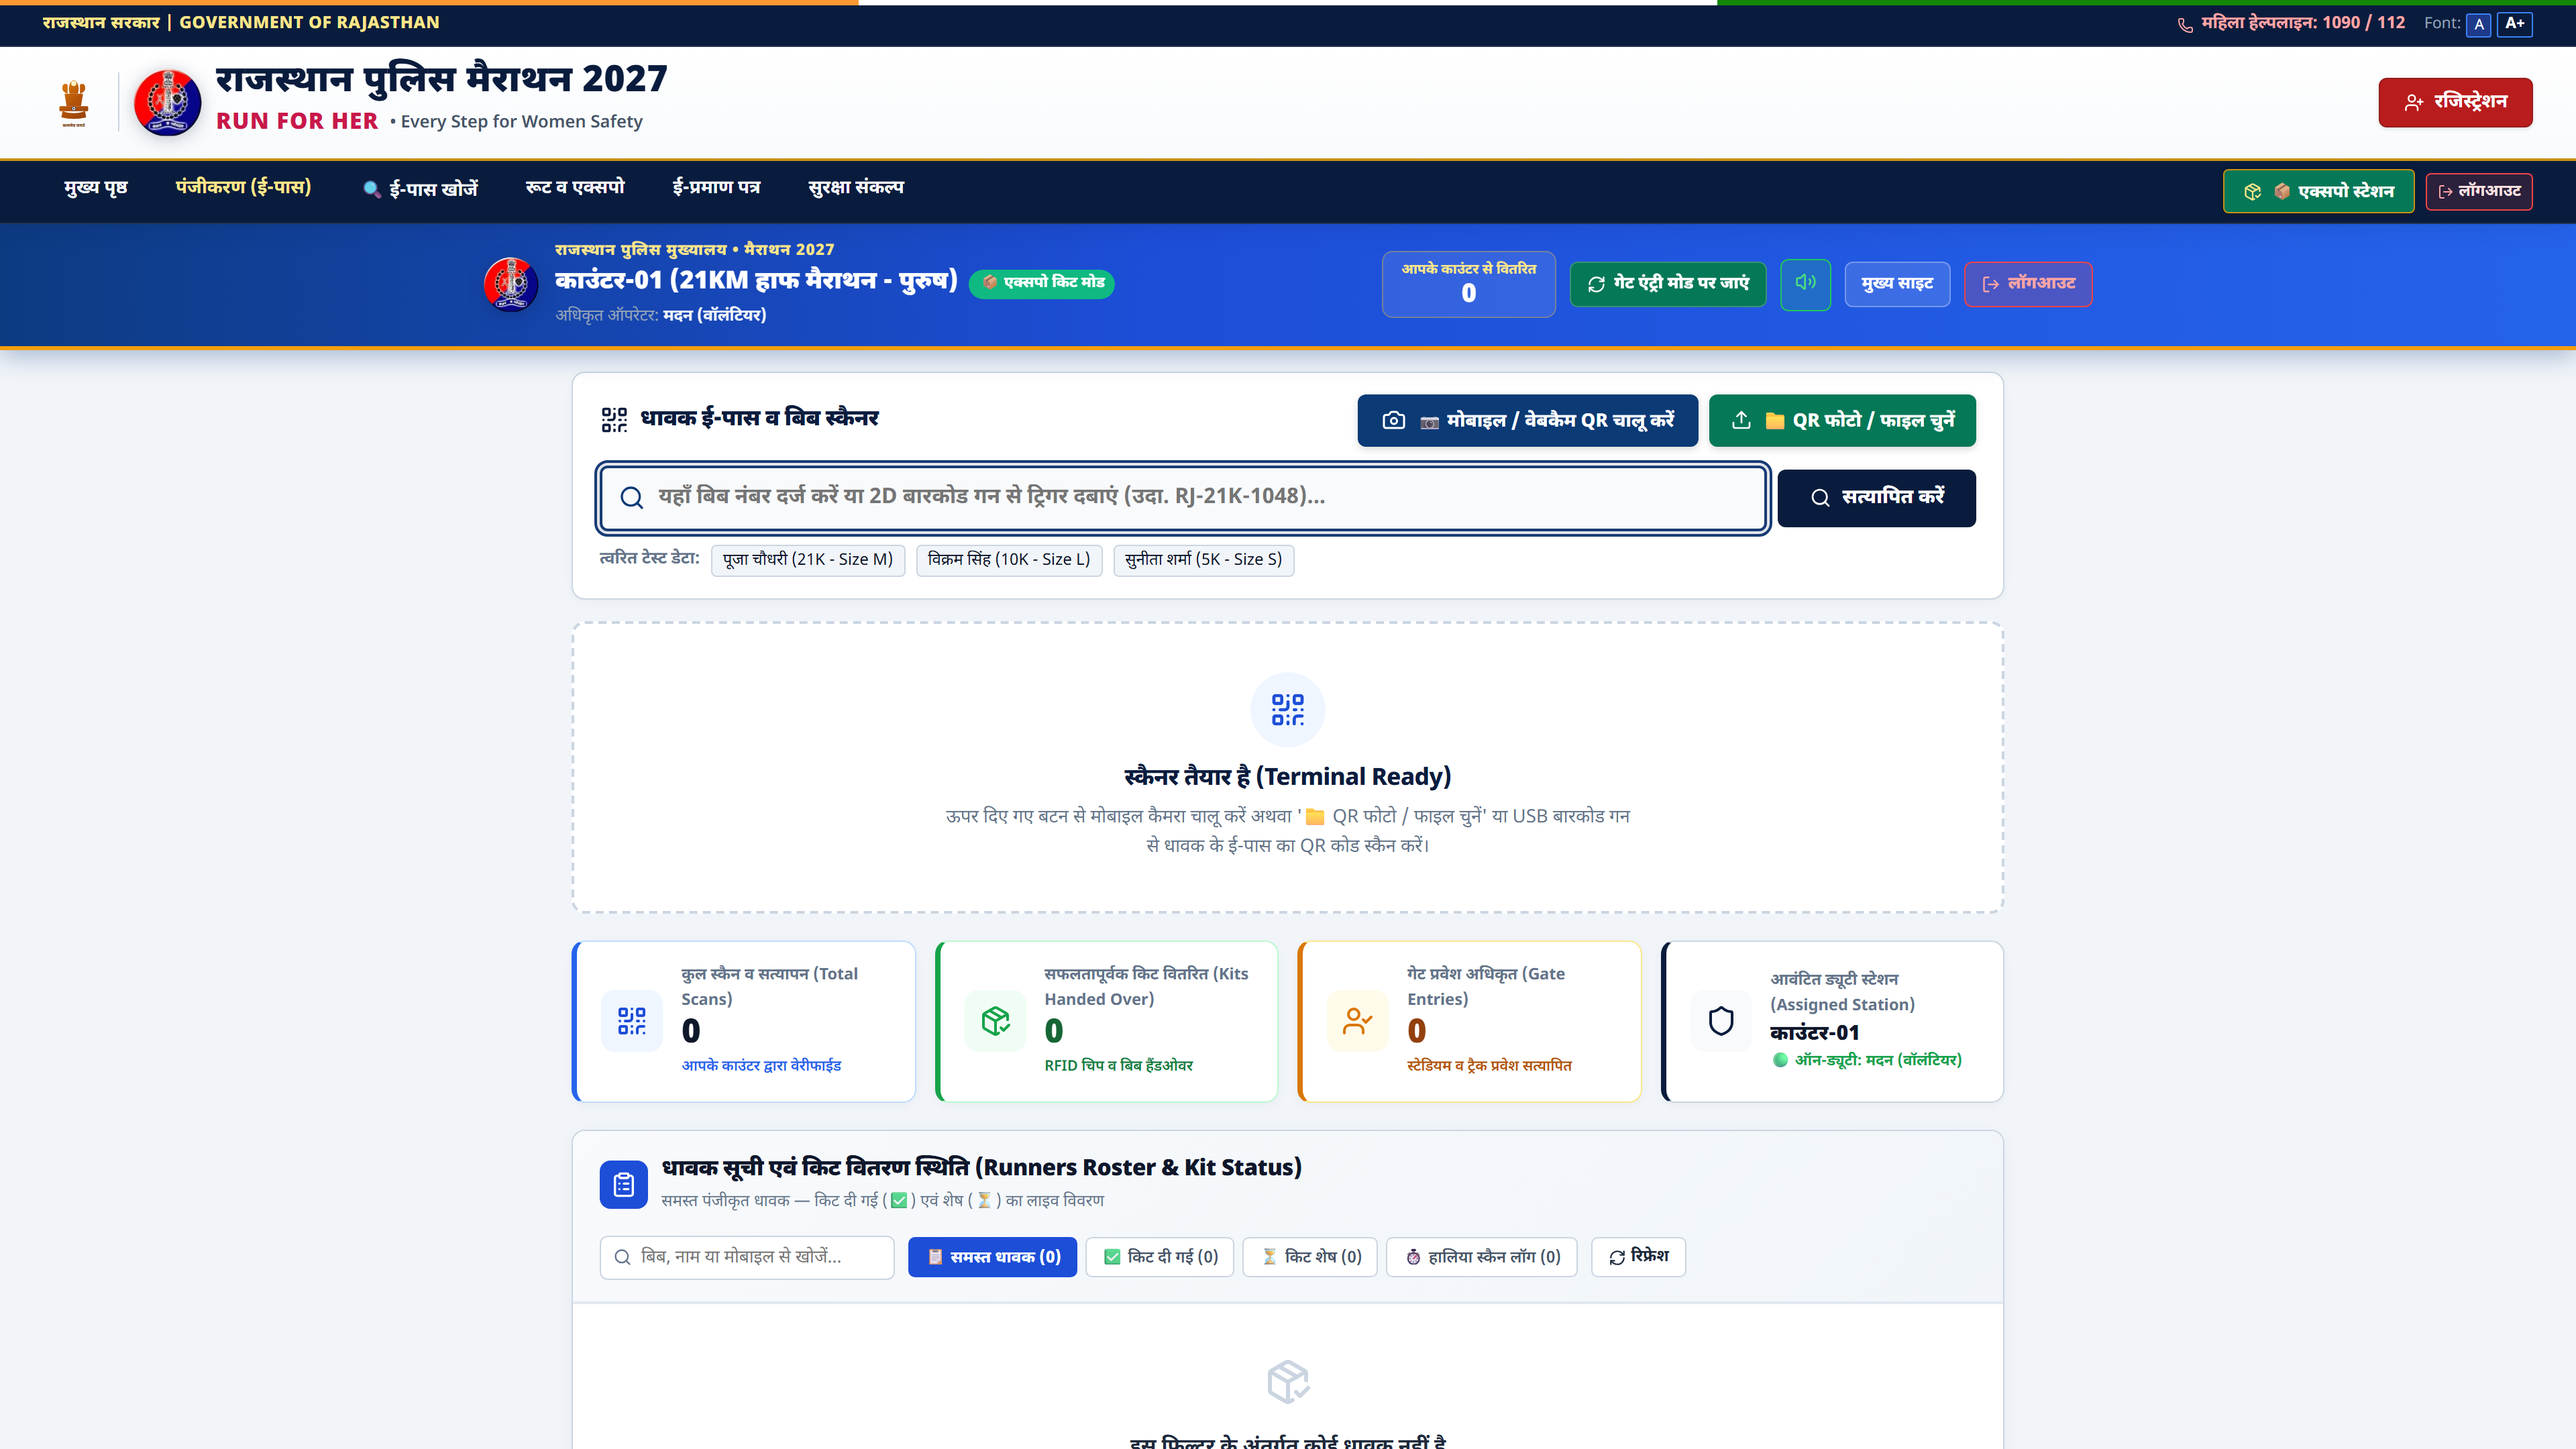
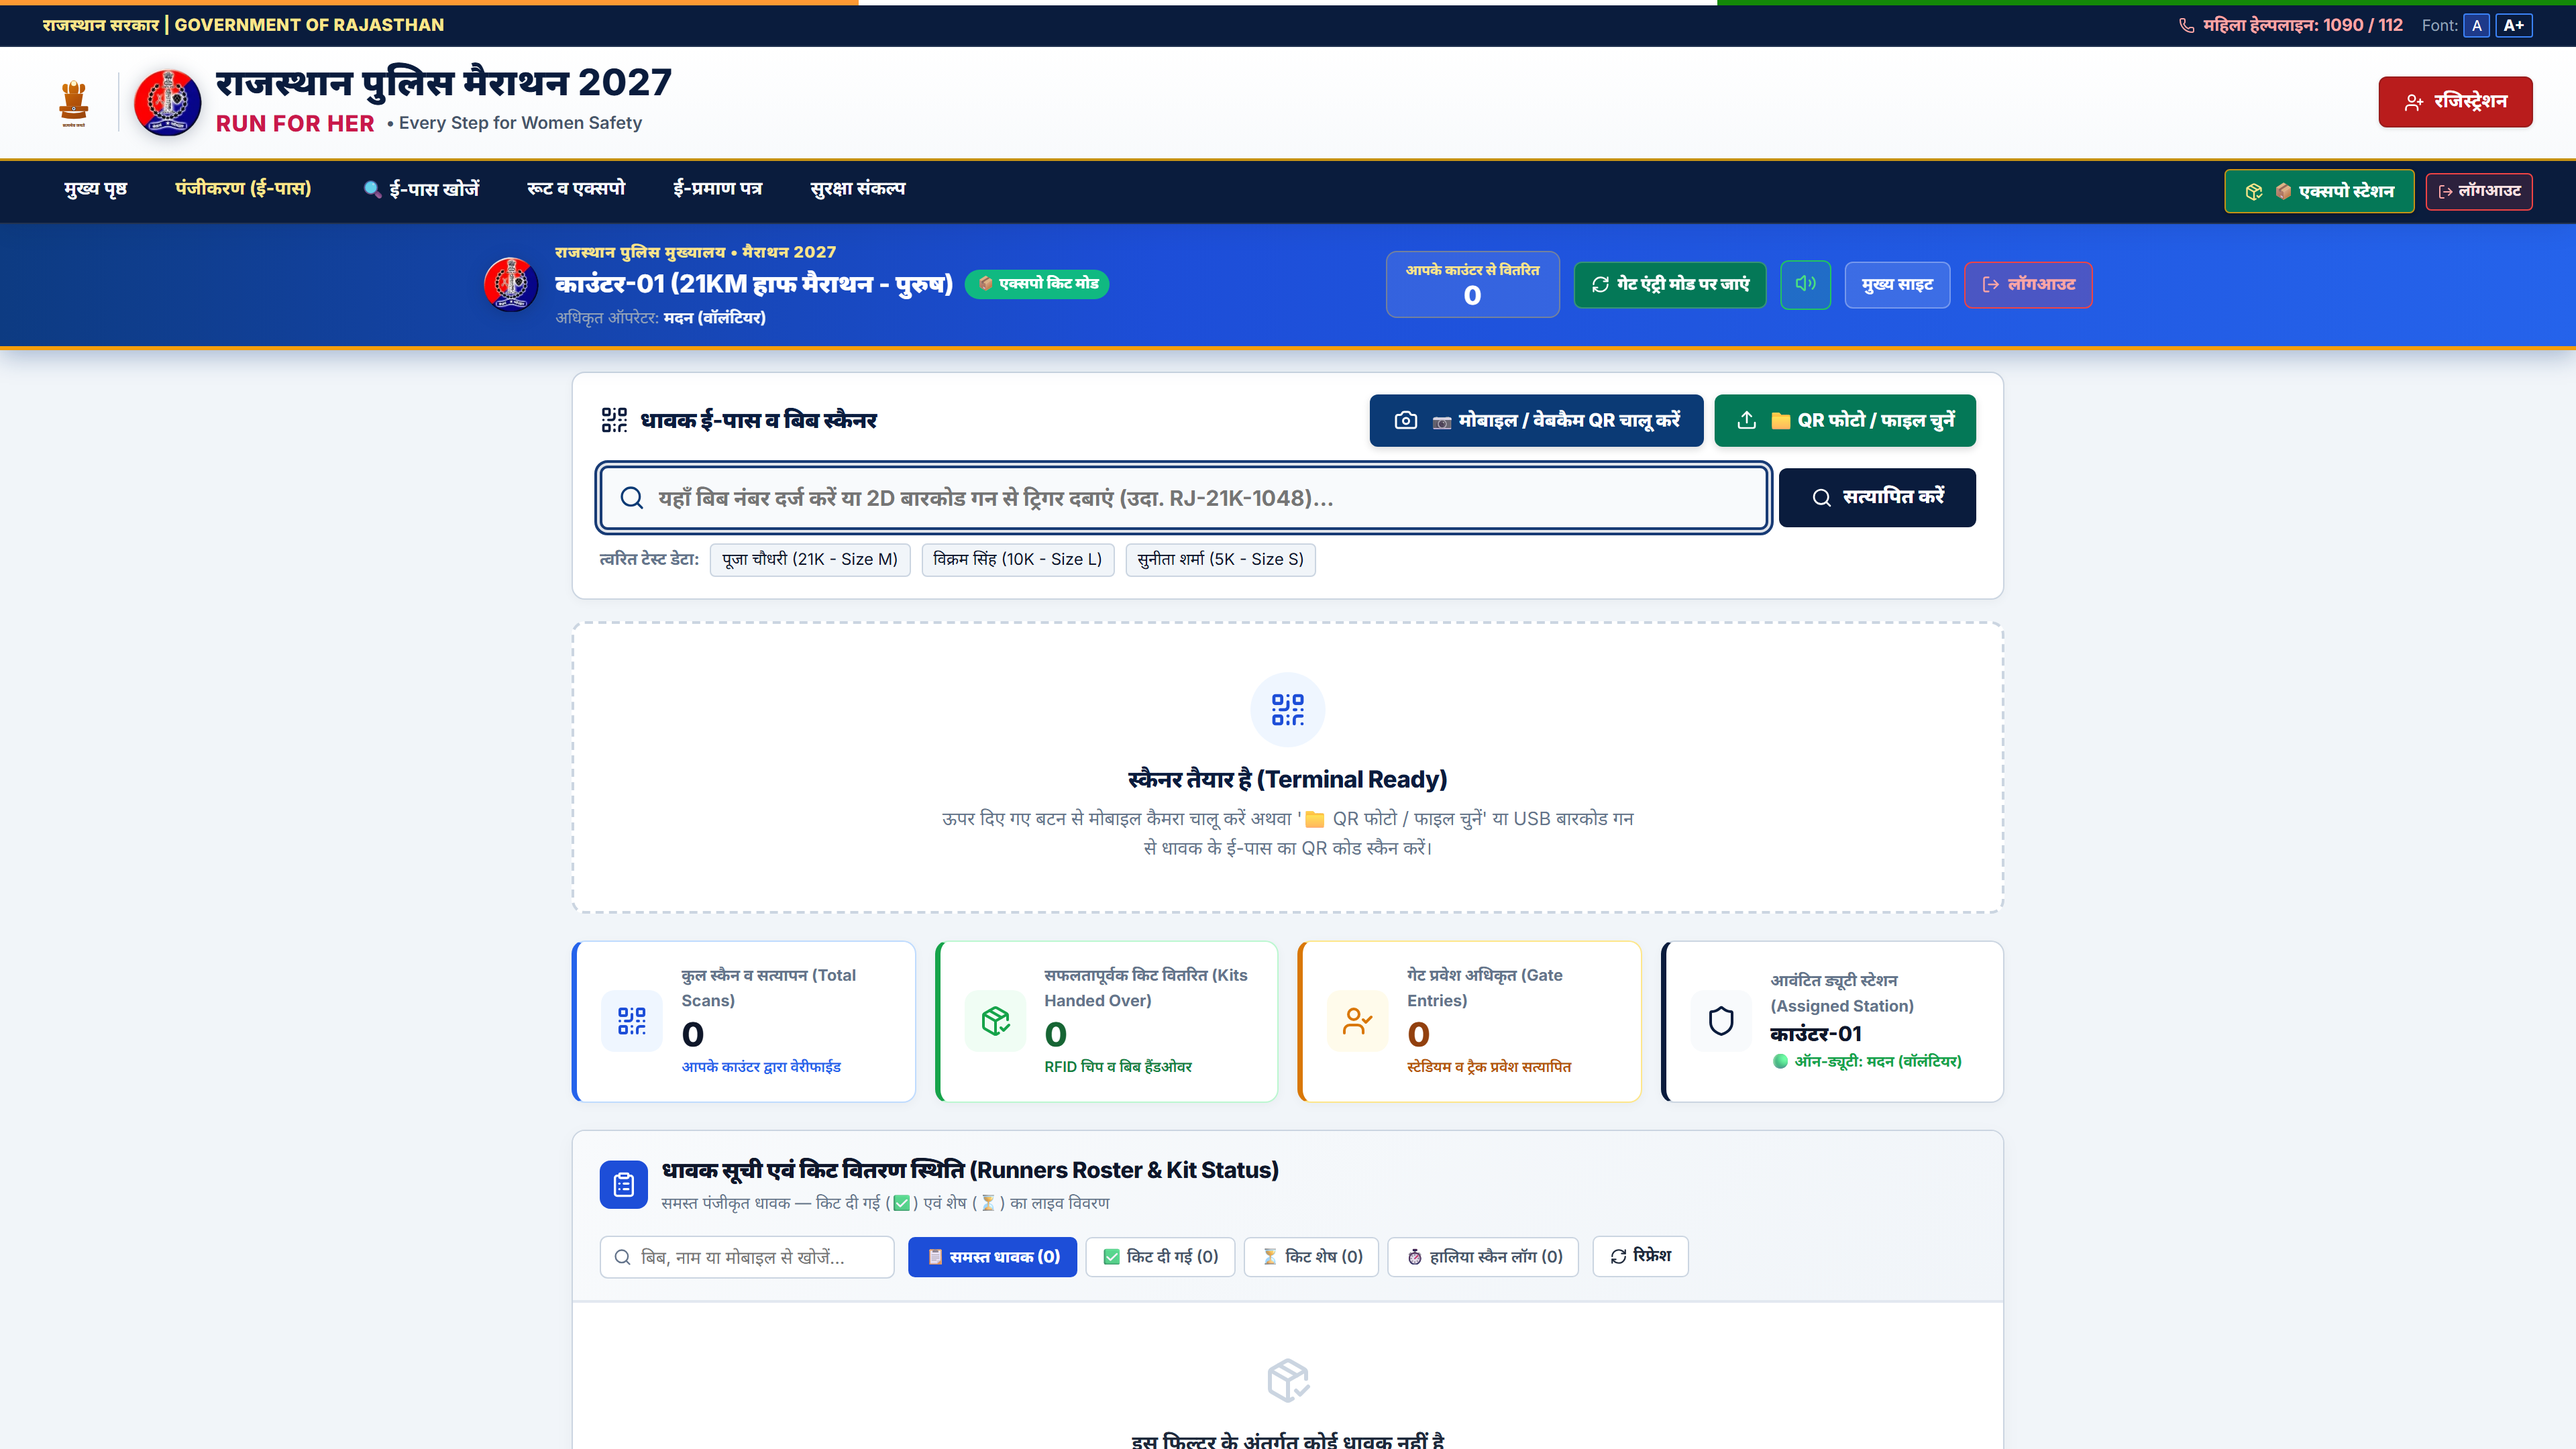
Clean T-shirt size options, simplify E-Pass search CTA button, apply corporate bilingual typography (Inter + Noto Sans Devanagari)

diff --git a/src/components/RegistrationPage.jsx b/src/components/RegistrationPage.jsx
@@ -2660,12 +2660,12 @@ export function RegistrationPage({
                       onChange={(e) => setFormData({ ...formData, tshirtSize: e.target.value })}
                       style={{ width: '100%', padding: '10px 12px', borderRadius: '8px', border: '1px solid var(--border-medium)', fontSize: '0.92rem' }}
                     >
-                      <option value="XS">XS (चेस्ट 34")</option>
-                      <option value="S">S (चेस्ट 36")</option>
-                      <option value="M">M (चेस्ट 38")</option>
-                      <option value="L">L (चेस्ट 40")</option>
-                      <option value="XL">XL (चेस्ट 42")</option>
-                      <option value="XXL">XXL (चेस्ट 44")</option>
+                      <option value="XS">XS</option>
+                      <option value="S">S</option>
+                      <option value="M">M</option>
+                      <option value="L">L</option>
+                      <option value="XL">XL</option>
+                      <option value="XXL">XXL</option>
                     </select>
                   </div>
 

diff --git a/src/index.css b/src/index.css
@@ -59,10 +59,10 @@
   --shadow-lg: 0 14px 30px -4px rgba(15, 23, 42, 0.1), 0 4px 10px -2px rgba(15, 23, 42, 0.05);
   --shadow-modal: 0 25px 60px -10px rgba(10, 28, 61, 0.3);
 
-  /* Fonts - Kruti Dev for Hindi, Arial for English */
-  --font-heading: 'Kruti Dev 010', 'KrutiDev', 'Noto Sans Devanagari', Arial, sans-serif;
-  --font-body: 'Kruti Dev 010', 'KrutiDev', 'Noto Sans Devanagari', Arial, sans-serif;
-  --font-serif: 'Kruti Dev 010', 'KrutiDev', 'Noto Sans Devanagari', Arial, sans-serif;
+  /* Corporate, Professional Bilingual Typography (Inter for English & Numbers, Noto Sans Devanagari for Hindi) */
+  --font-heading: 'Inter', 'Noto Sans Devanagari', -apple-system, BlinkMacSystemFont, 'Segoe UI', Roboto, 'Helvetica Neue', Arial, sans-serif;
+  --font-body: 'Inter', 'Noto Sans Devanagari', -apple-system, BlinkMacSystemFont, 'Segoe UI', Roboto, 'Helvetica Neue', Arial, sans-serif;
+  --font-serif: 'Inter', 'Noto Sans Devanagari', -apple-system, BlinkMacSystemFont, 'Segoe UI', Roboto, 'Helvetica Neue', Arial, sans-serif;
 
   --radius-sm: 6px;
   --radius-md: 10px;

diff --git a/src/components/Hero.jsx b/src/components/Hero.jsx
@@ -142,9 +142,9 @@ export function Hero({ onOpenRegister, onOpenFindPass, totalRegistered = "1000+"
                   e.currentTarget.style.background = 'rgba(255, 255, 255, 0.14)';
                   e.currentTarget.style.transform = 'translateY(0)';
                 }}
-                title="खोया हुआ ई-पास खोजें व पुनः डाउनलोड करें"
+                title="ई-पास खोजें व पुनः डाउनलोड करें"
               >
-                <span>🔍 ई-पास / बिब खोजें</span>
+                <span>🔍 ई-पास खोजें</span>
               </button>
             </div>
 

diff --git a/src/components/Navbar.jsx b/src/components/Navbar.jsx
@@ -416,7 +416,7 @@ export function Navbar({
               cursor: 'pointer'
             }}
           >
-            🔍 ई-पास / बिब खोजें (Find E-Pass)
+            🔍 ई-पास खोजें (Find E-Pass)
           </button>
 
           <button
